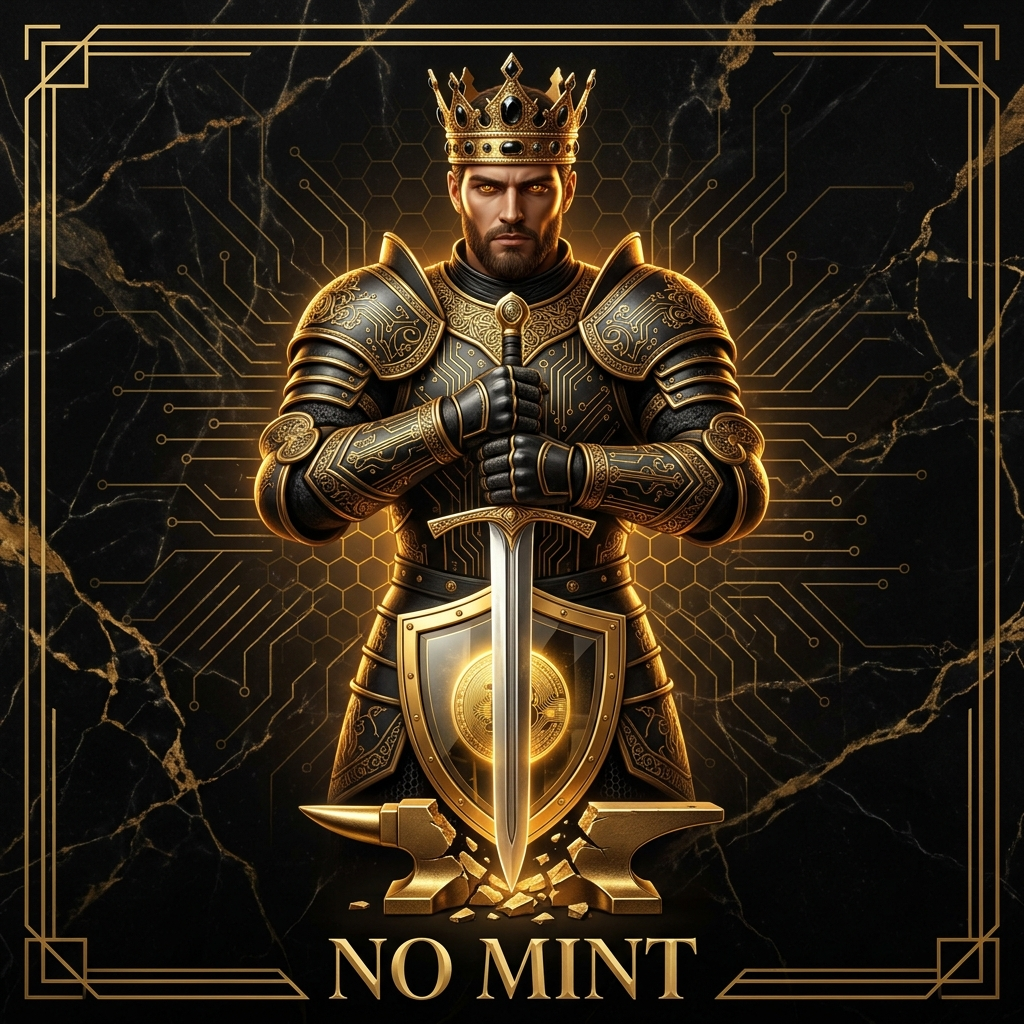
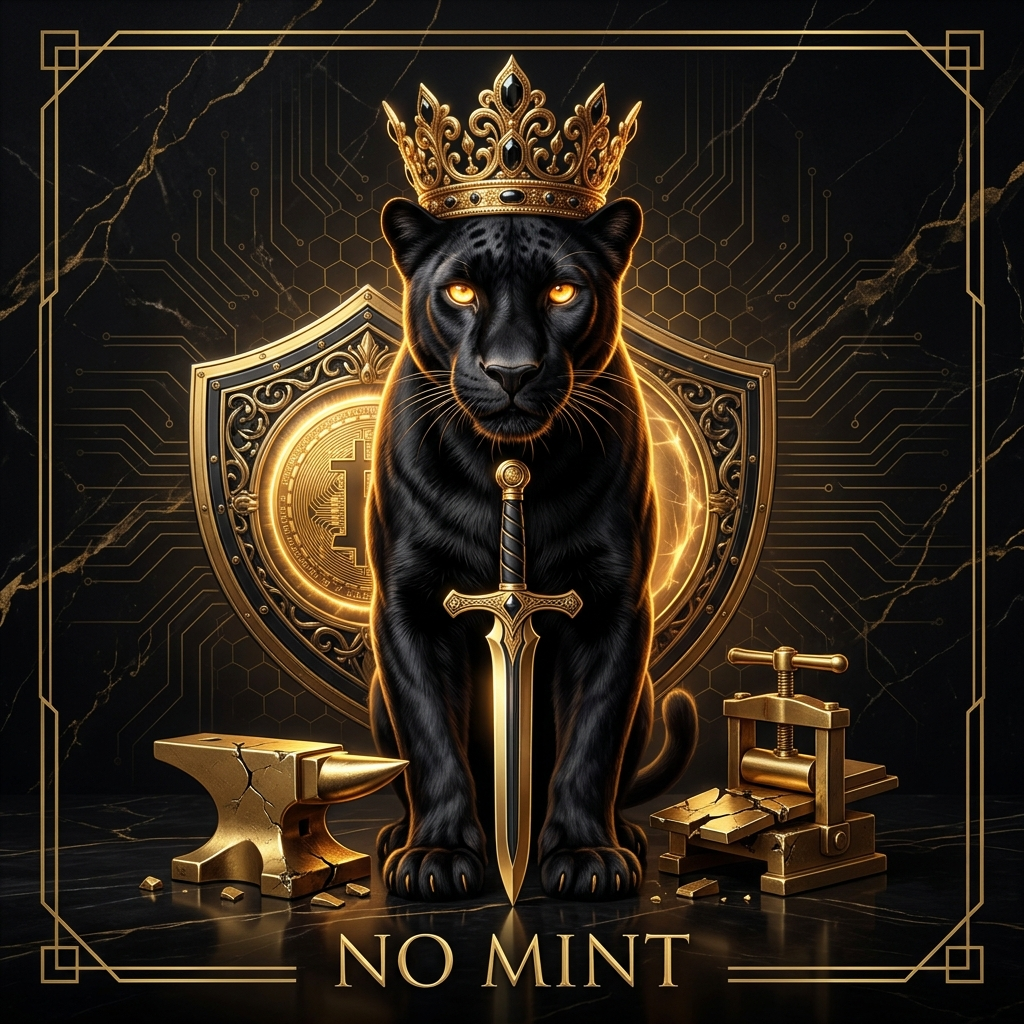
fix: replace No Mint artwork with crowned black panther queen guarding coin vault

diff --git a/index.html b/index.html
@@ -2215,9 +2215,9 @@
         <span class="art-deco-corner corner-br"></span>
 
         <div class="featured-lp-layout">
-          <!-- Card Artwork: Warrior King with Sword Guarding Coin Vault -->
+          <!-- Card Artwork: Crowned Black Panther Queen with Sword Guarding Coin Vault -->
           <div class="featured-lp-image-wrap">
-            <img src="assets/no-mint.png" alt="METANOIA No Mint — Warrior King Guarding Coin Vault" class="featured-lp-img" id="featured-nomint-img" loading="lazy">
+            <img src="assets/no-mint.png" alt="METANOIA No Mint — Crowned Black Panther Queen Guarding Coin Vault" class="featured-lp-img" id="featured-nomint-img" loading="lazy">
           </div>
 
           <!-- Card Content & Details -->
